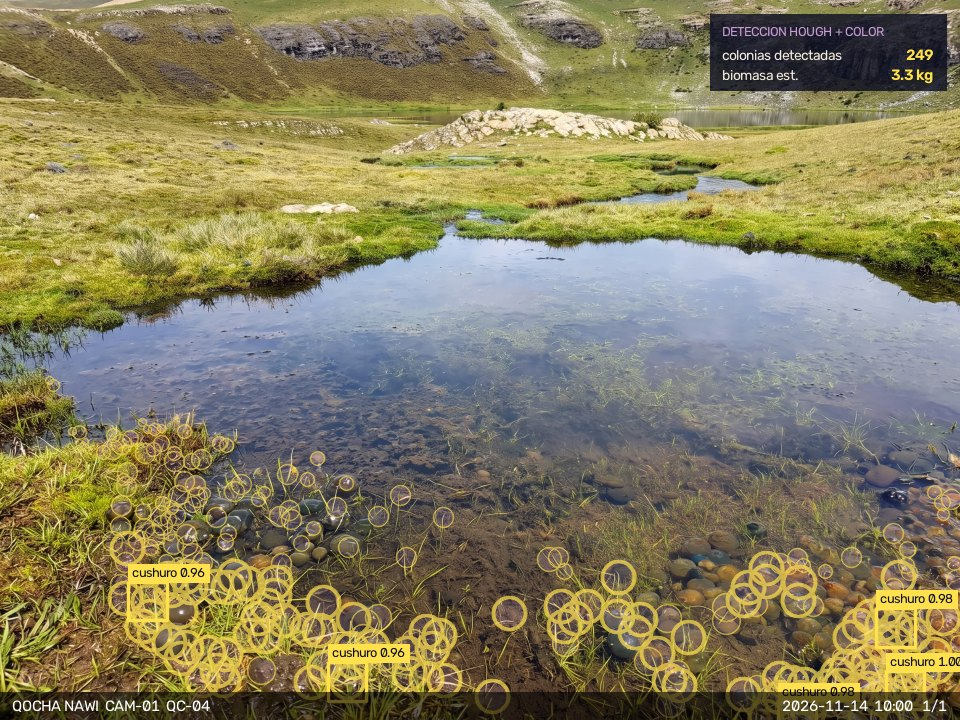
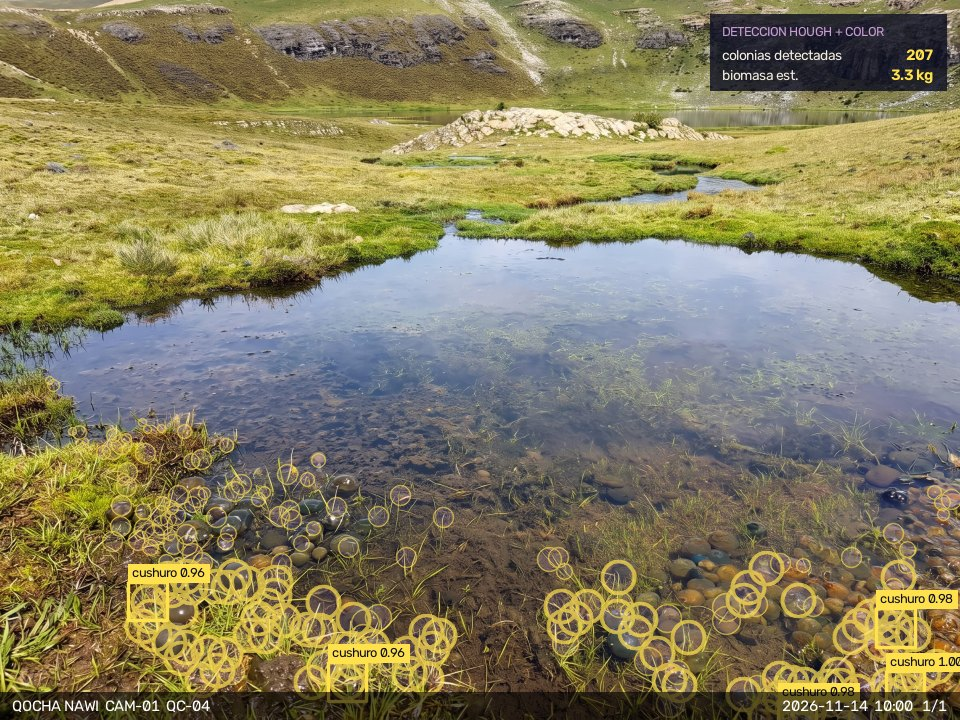
feat(vision): fotos de inspección QC-06..12 y caché de fotos en el service worker (#3)
- QC-06..12: una foto de inspección por cocha (14/11). gen-demo.mjs agrega su entrada
  (campo `inspeccion`) sin consumir números aleatorios: el resto de la demo no cambia.
  Coberturas elegidas para que el IAC mantenga el estado de cada cocha; QC-07 y QC-10
  (no aptas) sin cushuro.
- sw.js v3: las fotos de cámaras (/fotos/) van "red primero". Antes iban "caché
  primero" y los navegadores que ya habían abierto la app seguían mostrando las
  fotos viejas con el mismo nombre. Subir la versión borra los cachés anteriores.
- marcar-fotos.py: --min-colonias (menos de 5 detecciones = ruido).
- roi-camaras.json: zona somera de QC-06..12. QC-04 marcada con color oliva.
- docs/CREDITOS_FOTOS_DEMO.md: bases de QC-06..12.

Tests del gemelo 35/35, build OK.

Claude-Session: https://claude.ai/code/session_019Terz8VySvXjjnqjSFKr4D

diff --git a/twin/public/sw.js b/twin/public/sw.js
@@ -2,9 +2,10 @@
 // Escrito a mano (sin dependencias). Estrategias:
 //   - Página:            red primero; sin red, la última versión guardada.
 //   - Datos (*.json):    red primero; sin red, los últimos datos guardados.
+//   - Fotos de cámaras:  red primero (demo/fotos, data/fotos: se reemplazan con el mismo nombre).
 //   - JS/CSS/imágenes:   caché primero (los archivos de Vite llevan hash, no cambian).
 //   - Mapa (Esri):       caché primero, con un máximo de teselas guardadas.
-const VERSION = 'v2'
+const VERSION = 'v3' // subir al cambiar la estrategia: borra los cachés anteriores
 const APP = `qt-app-${VERSION}`
 const DATA = `qt-data-${VERSION}`
 const TILES = `qt-tiles-${VERSION}`
@@ -74,7 +75,7 @@ self.addEventListener('fetch', (e) => {
 
   if (req.mode === 'navigate') {
     e.respondWith(networkFirst(req, APP, './'))
-  } else if (url.pathname.endsWith('.json')) {
+  } else if (url.pathname.endsWith('.json') || url.pathname.includes('/fotos/')) {
     e.respondWith(networkFirst(req, DATA))
   } else {
     e.respondWith(cacheFirst(req, APP))

diff --git a/twin/scripts/marcar-fotos.py b/twin/scripts/marcar-fotos.py
@@ -204,6 +204,7 @@ def main():
     ap.add_argument("--referencias", default=str(RAIZ / "fotos-fuente" / "referencia"),
                     help="carpeta con la vista de cada cámara SIN cushuro (QC-01.jpg, ...): activa la sustracción de fondo")
     ap.add_argument("--umbral-cambio", type=float, default=12, help="diferencia de color mínima respecto a la referencia")
+    ap.add_argument("--min-colonias", type=int, default=5, help="menos detecciones que esto se consideran ruido")
     ap.add_argument("--depurar", action="store_true", help="dibuja también el contorno del agua usado")
     a = ap.parse_args()
 
@@ -227,6 +228,8 @@ def main():
             img = recortar_4_3(cv2.imread(str(fuente)))
             cambio = cambio_vs_referencia(img, ref, roi, a.umbral_cambio) if ref is not None else None
             mascara, colonias = detectar(img, roi, a, cambio)
+            if len(colonias) < a.min_colonias:  # unas pocas detecciones sueltas son ruido (reflejos, piedras): no hay cushuro
+                mascara, colonias = np.zeros_like(mascara), []
             out, cob = capa(img, mascara, colonias, roi, v, id_, n, len(serie), a.etiqueta,
                             "CAMBIO VS REFERENCIA + HOUGH" if cambio is not None else "DETECCION HOUGH + COLOR")
             if a.depurar:

diff --git a/docs/CREDITOS_FOTOS_DEMO.md b/docs/CREDITOS_FOTOS_DEMO.md
@@ -1,6 +1,6 @@
-# Fotos de la demo (QC-01 a QC-05): origen y créditos
+# Fotos de la demo (QC-01 a QC-12): origen y créditos
 
-Las fotos de `twin/public/demo/fotos/QC-01-*` … `QC-05-*` **ilustran el concepto**: son paisajes reales de humedales
+Las fotos de `twin/public/demo/fotos/QC-01-*` … `QC-12-*` **ilustran el concepto**: son paisajes reales de humedales
 altoandinos a los que se les agregaron colonias de cushuro con IA (Gemini, modelo de imagen Pro), siguiendo reglas de
 crecimiento tomadas de la literatura. No son fotos de campo de las cochas `SAB-xx`. Gemini agrega además la marca de
 agua invisible SynthID.
@@ -14,6 +14,16 @@ agua invisible SynthID.
 | QC-03 | Humedal de Rontococha, Abancay (Apurímac) | water.alternatives, Flickr 30266372677 | CC BY-NC 2.0 |
 | QC-04 | Pozas de Quiullacocha | MINCETUR, ficha 10225 | Sin licencia declarada; se cita la fuente |
 | QC-05 | Reserva Nacional Salinas y Aguada Blanca (Arequipa) | Veronique Debord, Flickr 989591394 | CC BY-SA 2.0 |
+| QC-06 | Borde de bofedal en Quiullacocha | MINCETUR, ficha 10225 | Sin licencia declarada; se cita la fuente |
+| QC-07 | Charca en la puna, Reserva Salinas y Aguada Blanca (**no apta**: sin cushuro) | Marie Thérèse Héber, Flickr 9551943900 | CC BY-SA 2.0 |
+| QC-08 | Canales del bofedal, Reserva Salinas y Aguada Blanca | Veronique Debord, Flickr 988737959 | CC BY-SA 2.0 |
+| QC-09 | Laguna Patococha, Pachacoto, Áncash (cocha de cushuro estudiada por el INAIGEM) | INAIGEM, Boletín 2016, p. 73 | Publicación del Estado; se cita la fuente |
+| QC-10 | Orilla salina de la Laguna de Salinas, Arequipa (**no apta**: sin cushuro) | Diego Delso, Wikimedia Commons ("Laguna de Salinas, Arequipa, Perú, 2015-08-02, DD 22") | CC BY-SA 4.0 |
+| QC-11 | Orilla de la Laguna de Salinas, Arequipa | CNicole Silva, Wikimedia Commons | CC BY-SA 4.0 |
+| QC-12 | Pequeña laguna altoandina | Irma Franke, Wikimedia Commons ("3 Pequeña laguna alto andina.JPG") | CC BY-SA 3.0 |
+
+QC-06 a QC-12 son **fotos de inspección** (una por cocha, 14/11). Su cobertura en `twin/scripts/gen-demo.mjs`
+(`inspeccion`) está elegida para que el IAC mantenga el estado de cada cocha.
 
 Ficha MINCETUR: https://consultasenlinea.mincetur.gob.pe/fichaInventario/index.aspx?cod_Ficha=10225
 
@@ -31,6 +41,9 @@ Ficha MINCETUR: https://consultasenlinea.mincetur.gob.pe/fichaInventario/index.a
 
 ## Visión
 
-`twin/scripts/marcar-fotos.py --escala 0.4` con las vistas de referencia de cada cámara (sin cushuro) en
-`twin/fotos-fuente/referencia/` (no se sube al repo): sustracción de fondo + Hough. La zona somera de cada cámara
-está en `twin/scripts/roi-camaras.json`.
+- **Series (QC-01, 02, 03, 05):** `py twin/scripts/marcar-fotos.py --escala 0.4`, con la vista de cada cámara sin
+  cushuro en `twin/fotos-fuente/referencia/` (no se sube al repo): sustracción de fondo + Hough.
+- **Fotos sueltas (QC-04, QC-06 a QC-12):** sin referencia, Hough + color verde oliva:
+  `py twin/scripts/marcar-fotos.py --entrada <carpeta con esas fotos> --escala 0.4 --h 18 45`.
+  Menos de 5 detecciones se toman como ruido (QC-07 y QC-10 quedan en 0).
+- La zona somera de cada cámara está en `twin/scripts/roi-camaras.json`.
